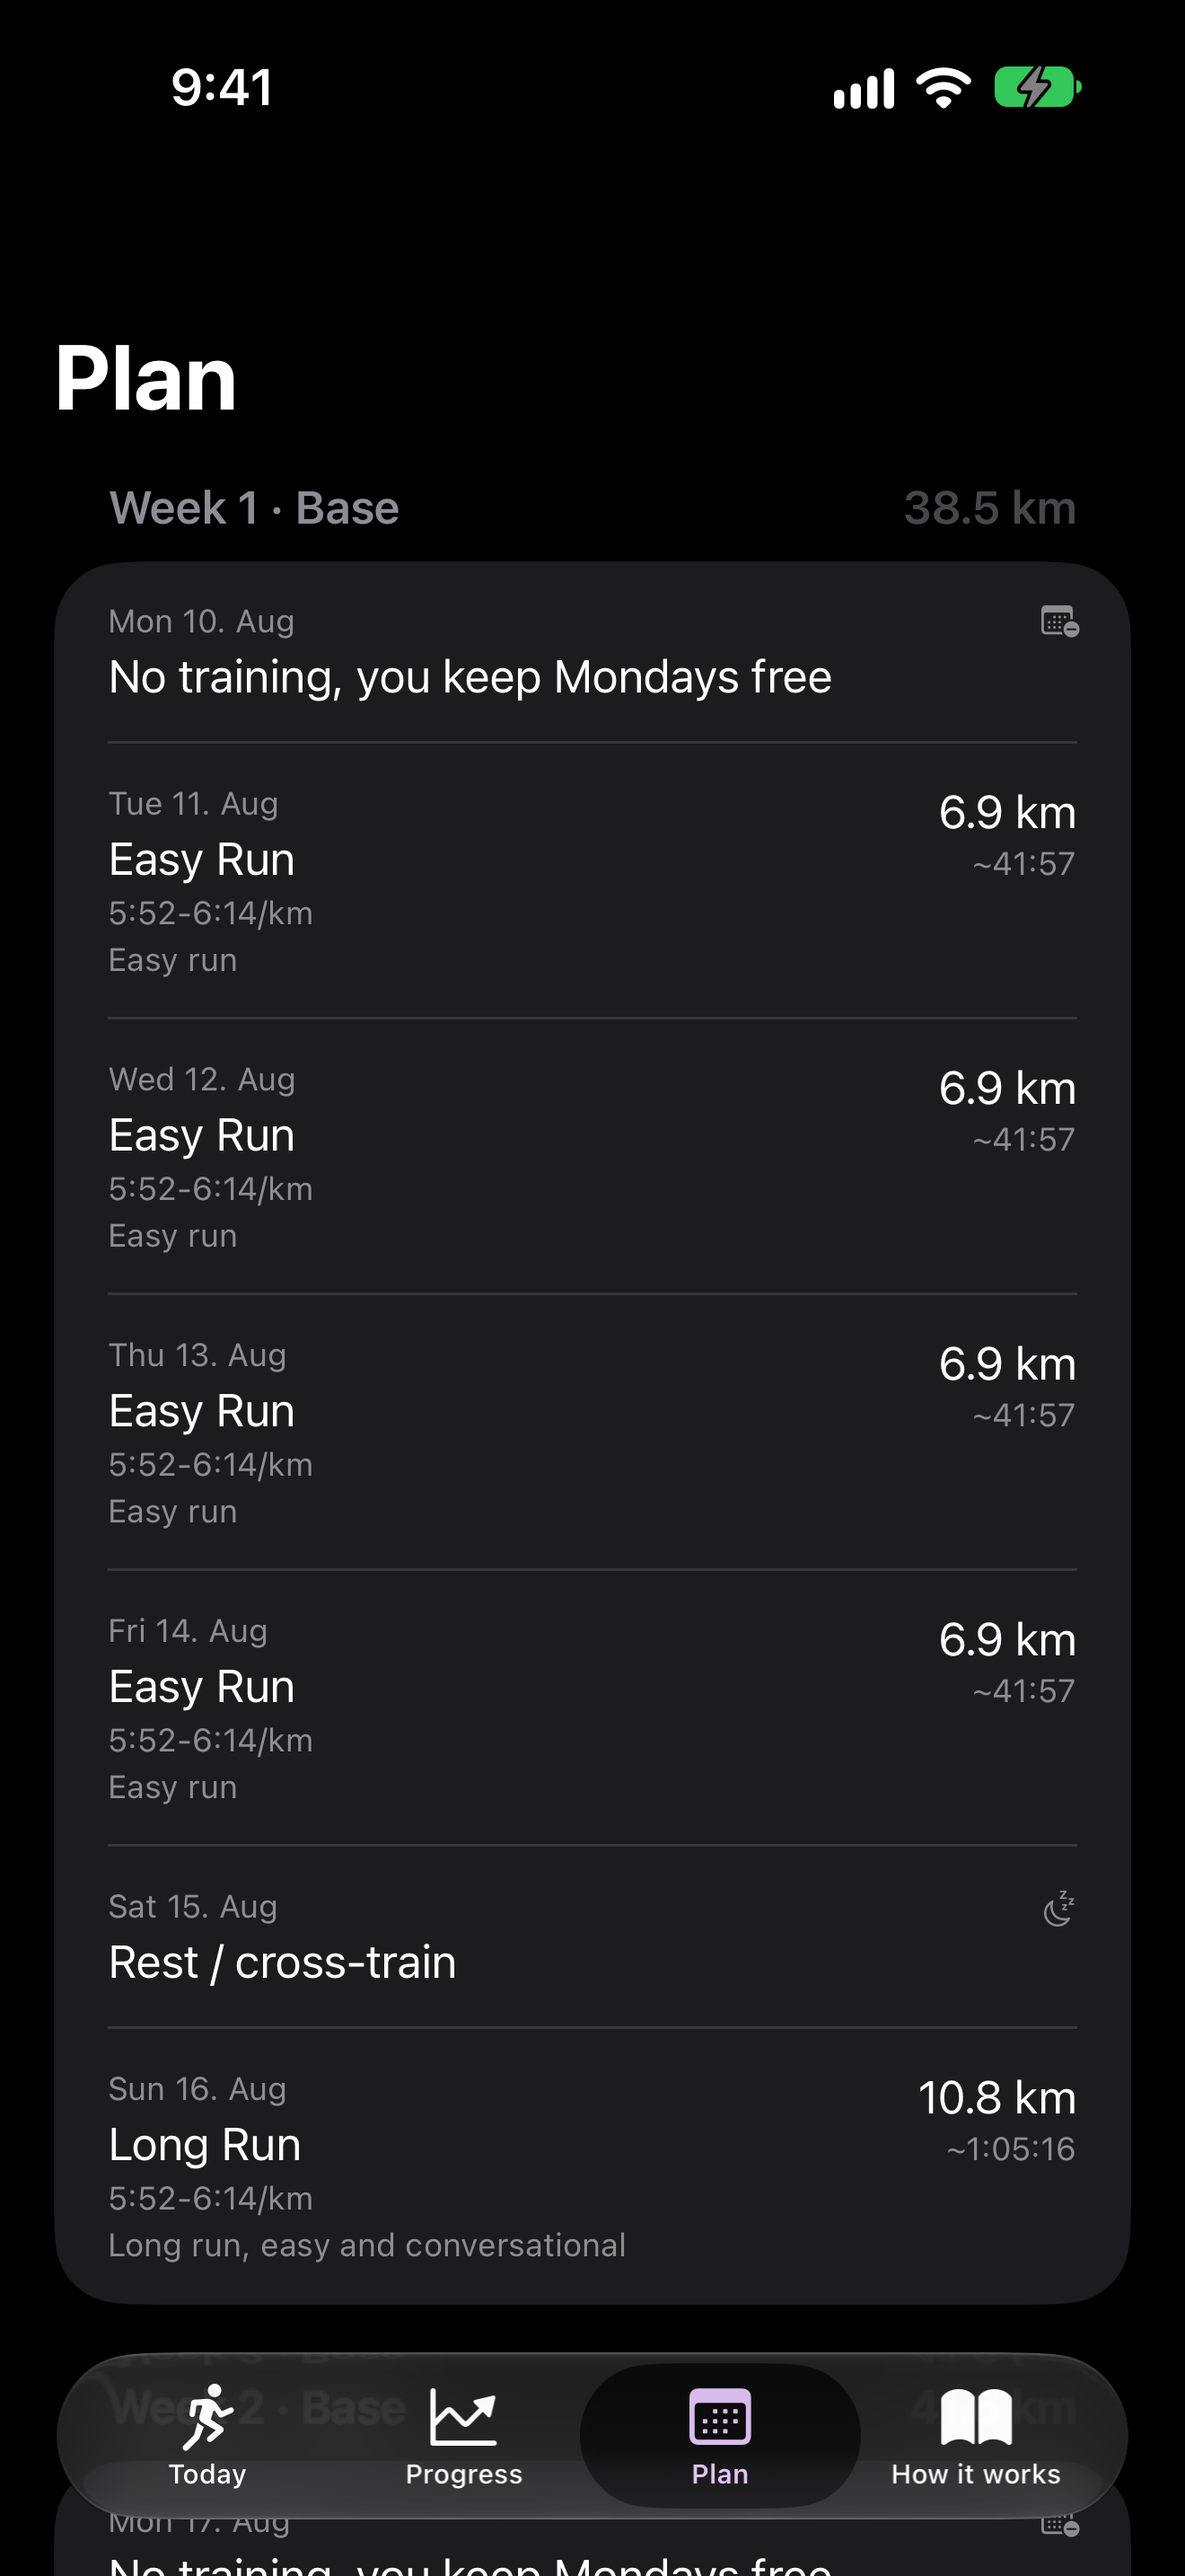
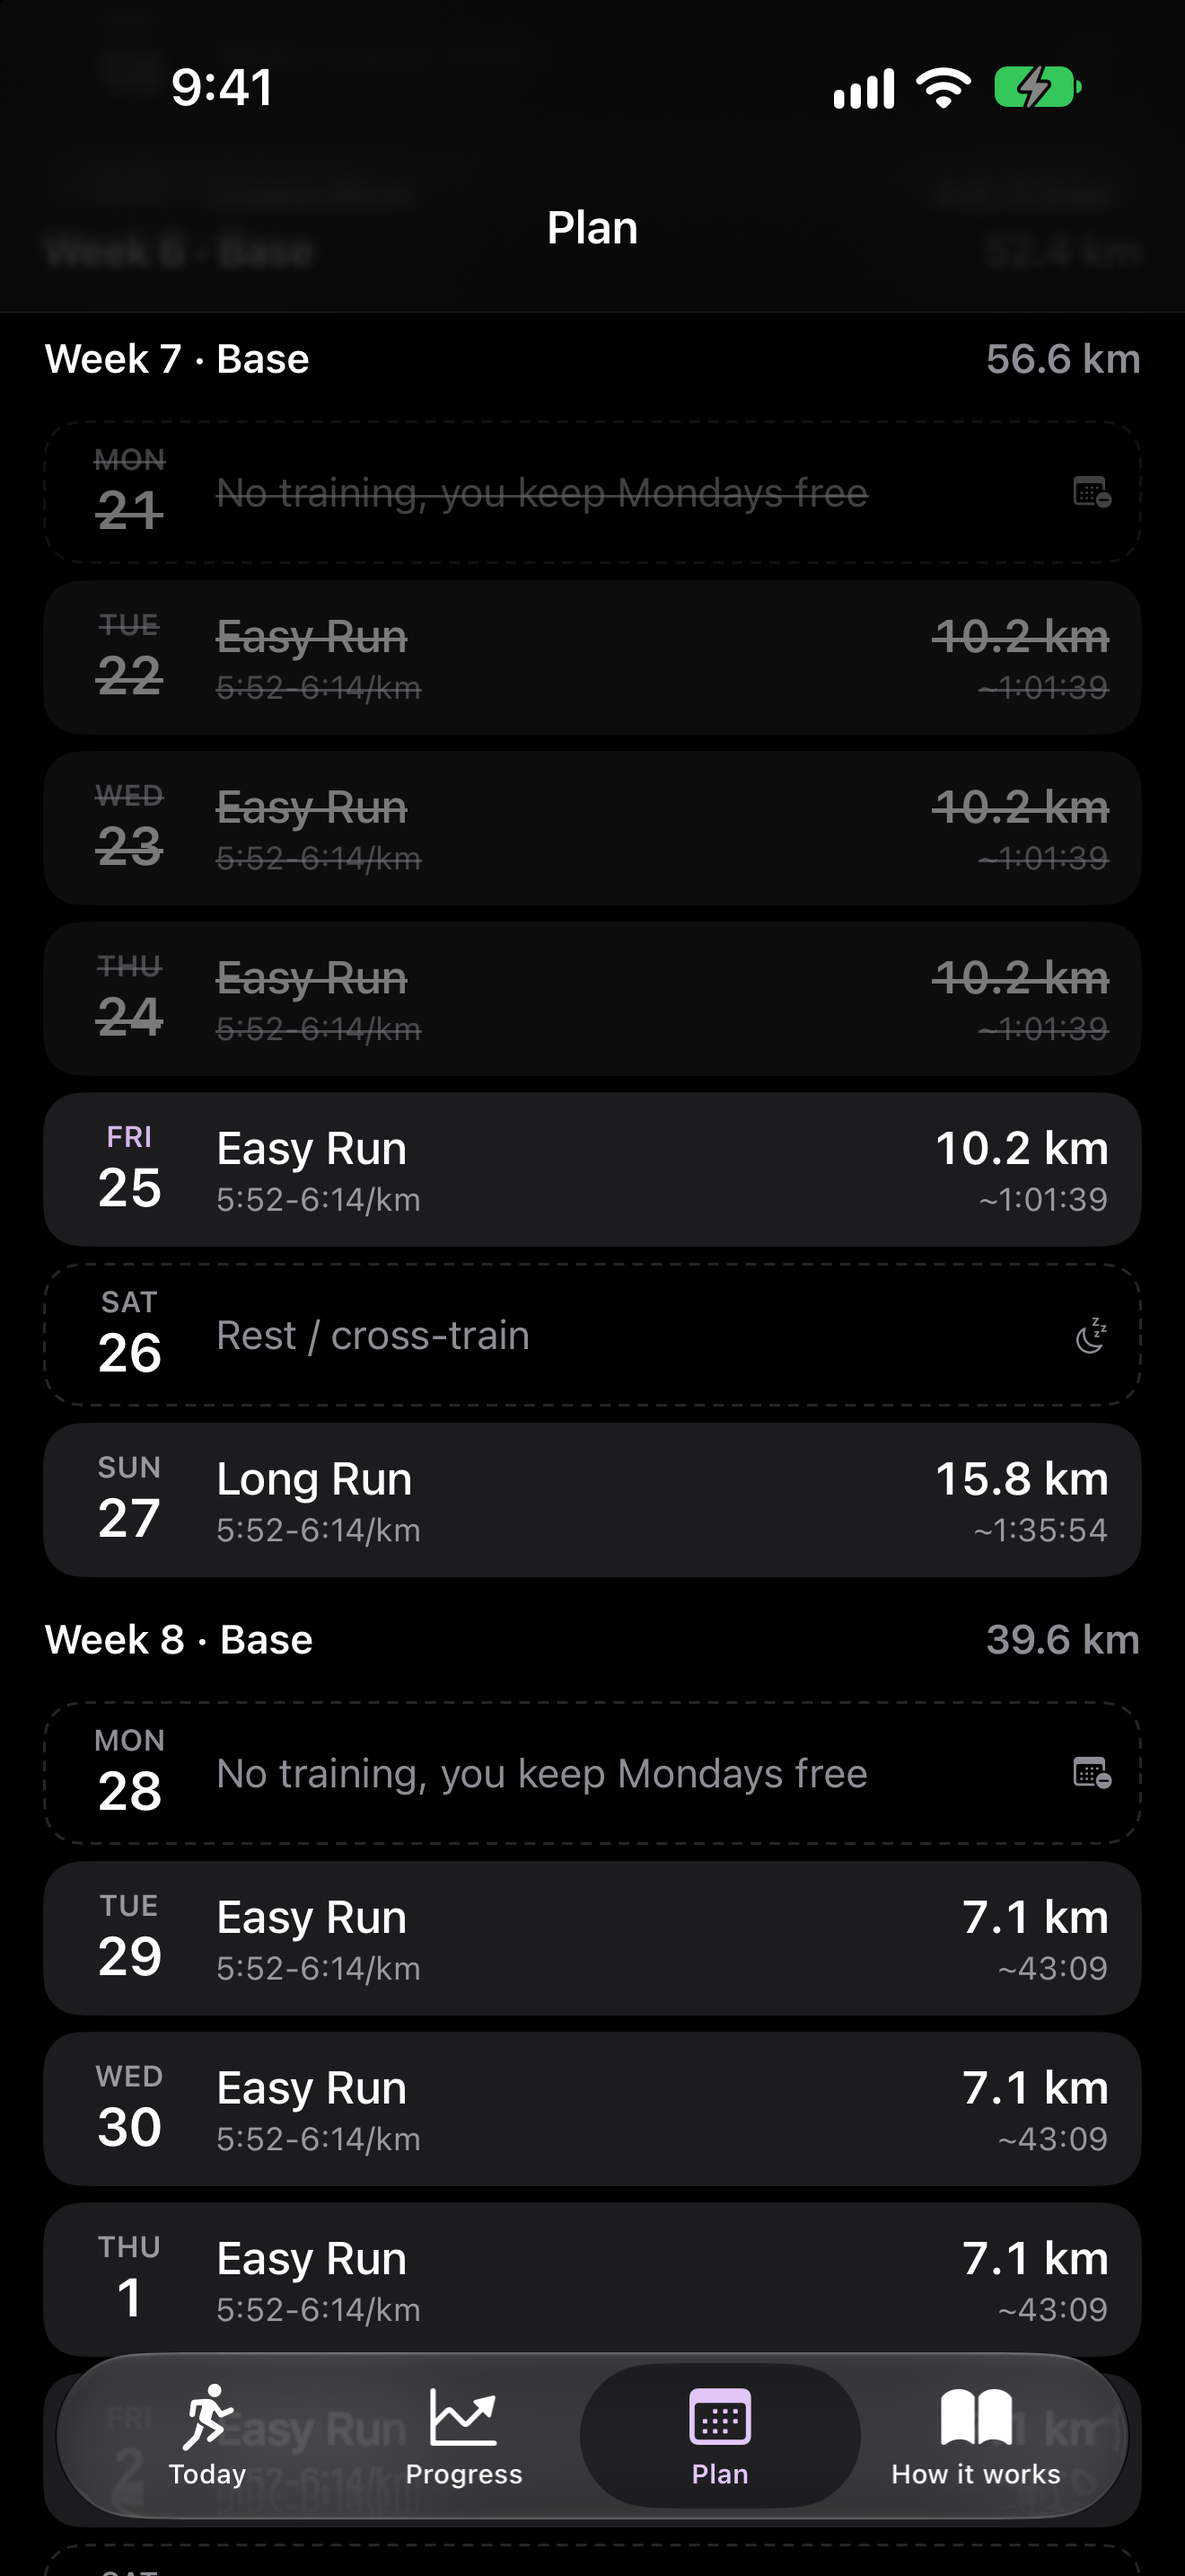
Build 6: plan opens on this week; refresh plan and watch screenshots on README and website
The plan's jump to the current week ran before the lazy stack could resolve it,
so it opened on week 1. It now scrolls to the week's header after the first
layout pass. The watch home fits one screen, so its scrolling clip becomes a
still image.

Changed region(s): [[0.0311, 0.0931, 0.9629, 1.0], [0.8386, 0.1241, 0.9629, 0.1552], [0.4659, 0.0621, 0.528, 0.0931]]

diff --git a/website/index.html b/website/index.html
@@ -168,14 +168,14 @@
             <figcaption><b>Check where you stand</b>Days to race, this week, how closely you follow the plan, your fitness and your paces.</figcaption>
           </figure>
           <figure>
-            <img src="screens/iphone-7-plan.webp" width="330" height="717" loading="lazy" alt="Plan: the week by week list of runs">
-            <figcaption><b>The whole plan</b>Every week up to race day, and it moves when your weeks do.</figcaption>
+            <img src="screens/iphone-7-plan.webp?v=5106d3d3" width="330" height="717" loading="lazy" alt="Plan: this week's days as cards, past days struck through">
+            <figcaption><b>The whole plan</b>Every week up to race day. Hold a day and drag it onto another to swap them.</figcaption>
           </figure>
         </div>
         <p class="gallery-head">And on Apple Watch.</p>
         <div class="gallery gallery-watch">
           <figure>
-            <video src="screens/watch-1-today.mp4" poster="screens/watch-1-today.webp" width="156" height="186" autoplay muted loop playsinline preload="metadata" aria-label="Apple Watch home: today's easy run, the week ring and Start Run"></video>
+            <img src="screens/watch-1-today.webp?v=1314545a" width="156" height="186" loading="lazy" alt="Apple Watch home on one screen: today's easy run, the week ring and Start Run">
             <figcaption><b>Today on the wrist</b>The run, your week, and Start.</figcaption>
           </figure>
           <figure>

diff --git a/App-iOS/Views/CalendarView.swift b/App-iOS/Views/CalendarView.swift
@@ -49,21 +49,22 @@ struct CalendarView: View {
                                 card(workout, zones: plan.paceZones)
                             }
                         } header: {
-                            weekHeader(week)
+                            weekHeader(week).id("week-\(week.index)")
                         }
-                        .id(week.index)
                     }
                 }
                 .padding(.horizontal)
                 .padding(.bottom)
             }
             .refreshable { await coordinator.refreshAdaptation() }
-            .onAppear {
-                // Open on the current week, not week 1.
+            .task {
+                // Open on the current week, not week 1. Wait one layout pass so the
+                // lazy stack can resolve the target.
                 guard !didScrollToToday,
                       let current = plan.weeks.last(where: { $0.startDate <= .now }) else { return }
                 didScrollToToday = true
-                proxy.scrollTo(current.index, anchor: .top)
+                try? await Task.sleep(for: .milliseconds(50))
+                proxy.scrollTo("week-\(current.index)", anchor: .top)
             }
         }
     }

diff --git a/README.md b/README.md
@@ -38,7 +38,7 @@ ran. Paces come from the VDOT method by Jack Tupper Daniels.
   <img src="docs/screenshots/iphone-7-plan.png" width="180" alt="Plan">
 </p>
 <p align="center">
-  <img src="docs/screenshots/watch-1-today.gif" width="156" alt="Watch home">
+  <img src="docs/screenshots/watch-1-today.png" width="156" alt="Watch home">
   <img src="docs/screenshots/watch-2-run.gif" width="156" alt="Watch during a run">
   <img src="docs/screenshots/watch-3-summary.gif" width="156" alt="Watch after a run">
 </p>
